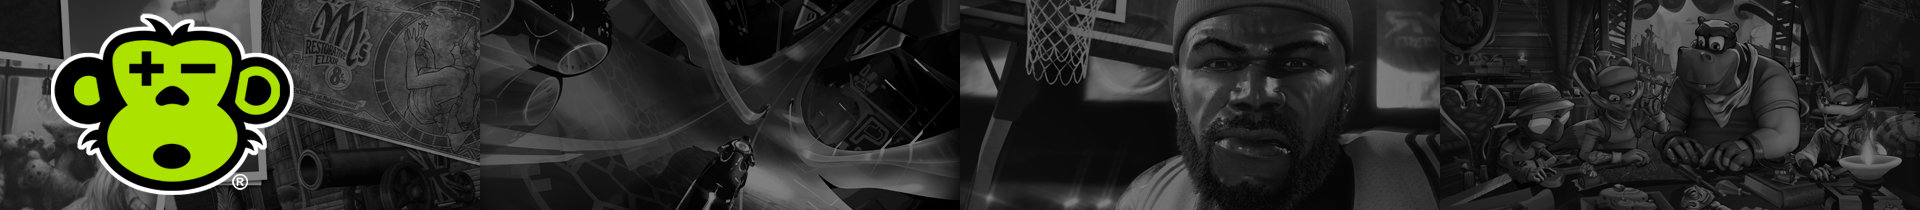
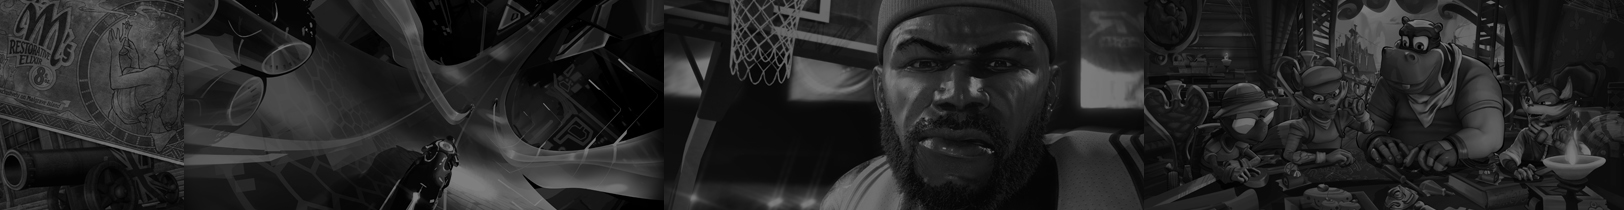
added header image; fixed styling; success~

diff --git a/app/assets/stylesheets/styles.scss b/app/assets/stylesheets/styles.scss
@@ -15,6 +15,10 @@ html {
     min-height: 100%;
 }
 
+.dark-bg {
+	background-color: $dark
+}
+
 body {
 	height: 100%;
 }
@@ -63,9 +67,10 @@ hr.green {
 // }
 
 header {
-		// position: absolute;
-		// top: 0;
-	}
+	background-image: url(Top-Banner.jpg);
+	background-repeat: no-repeat;
+	height: 100px;
+}
 
 #main_navigation {
 	width: 100%;
@@ -75,15 +80,17 @@ header {
 	}
 	nav {
 		font-family: 'Raleway', sans-serif;
-		padding: 1em 3% 1.5em 3%;
+		padding: 1em 3% 1em 3%;
 		float: right;
+		vertical-align: middle;
+		// margin: 40px 0 40px 0;
 		a {
-			color: black;
+			color: white;
 			font-family: 'Raleway', sans-serif;
 			font-weight: 600;
 			font-size: 16px;
 			text-decoration: none;
-			margin: 2rem;
+			margin: 1rem;
 			padding: .5em;
 			text-transform: uppercase;
 		}
@@ -95,33 +102,6 @@ header {
 	}
 }
 
-#main_nav_black {
-	width: 100%;
-	#logo {
-		width: 80px;
-		padding-left: 10%;
-	}
-	nav {
-		font-family: 'Raleway', sans-serif;
-		padding: 1em 3% 1.5em 3%;
-		float: right;
-		a {
-			color: black;
-			font-family: 'Raleway', sans-serif;
-			font-weight: 600;
-			font-size: 16px;
-			text-decoration: none;
-			margin: 2rem;
-			padding: .5em;
-			text-transform: uppercase;
-		}
-		a:hover {
-			color: $green;
-			background-color: black;
-			text-decoration: none;
-		}
-	}
-}
 
 
 // MAIN
@@ -137,6 +117,9 @@ header {
 	height: 10vh;
 }
 
+.tron {
+	clear: both;
+}
 
 .tron, .vrsports, .sonicfire {
 	position: relative;
@@ -148,17 +131,13 @@ header {
 		transform: translate(-50%, 0);
 	}
 }
-.tron, #about, #games {
+ #about, #games {
 	// margin-top: -100px;
 	z-index: -200;
 }
 
 #games {
 	position: relative;
-}
-
-#about {
-	margin-top: 10vh;
 }
 
 .description {
@@ -210,6 +189,10 @@ header {
 // JOBS
 #slogan {
 	margin:50px;
+}
+
+#about {
+	margin-top: 10vh;
 }
 
 .benefits-top {
